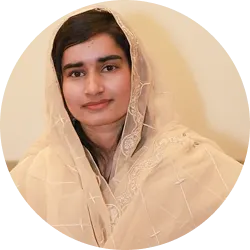
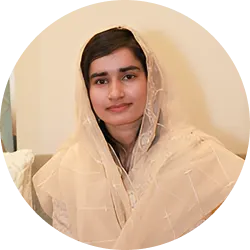
added images for partner with us and testimonials

diff --git a/src/views/Header/LoginSignupModel.tsx b/src/views/Header/LoginSignupModel.tsx
@@ -116,7 +116,7 @@ export const Model = ({ page = "login" }: { page: string }) => {
         headers: headers(),
       });
 
-      console.log("Profiles API response:", response.data);
+      // console.log("Profiles API response:", response.data);
 
       const profilesData = response.data.response.data;
       const allProfiles = [profilesData.self, ...profilesData.profiles].filter(Boolean);
@@ -130,9 +130,9 @@ export const Model = ({ page = "login" }: { page: string }) => {
           profilePhone === `92${phoneNum.startsWith('0') ? phoneNum.substring(1) : phoneNum}`;
       });
 
-      console.log("Current phone number:", currentPhoneNumber);
-      console.log("All profiles:", allProfiles);
-      console.log("Filtered profiles for current phone:", filteredProfiles);
+      // console.log("Current phone number:", currentPhoneNumber);
+      // console.log("All profiles:", allProfiles);
+      // console.log("Filtered profiles for current phone:", filteredProfiles);
       return filteredProfiles;
     } catch (error) {
       console.error("Error fetching profiles:", error);
@@ -213,7 +213,7 @@ export const Model = ({ page = "login" }: { page: string }) => {
           console.warn('[Login] dispatch setAuth failed', err);
         }
 
-        console.log("OTP verification response:", res.data.response);
+        // console.log("OTP verification response:", res.data.response);
 
         // Register device token with backend for call notifications (don't block UI)
         try {

diff --git a/src/pages/partnerwithus/testimonial.tsx b/src/pages/partnerwithus/testimonial.tsx
@@ -11,12 +11,20 @@ const ClientTestimonials: React.FC = () => {
   };
 
   const clients = [
-    { logo: "/images/logo.png", alt: "Daklit" },
-    { logo: "/images/Partner11.png", alt: "Logic Racks" },
-    { logo: "/images/logo3.png", alt: "Spartans" },
-    { logo: "/images/logo4.png", alt: "Think Collective" },
-    { logo: "/images/logo5.png", alt: "Abstron" },
-    { logo: "/images/logo6.png", alt: "NextTech" },
+    { logo: "/images/Green-Pharmacy.webp", alt: "Green Pharmacy" },
+    { logo: "/images/idclogo.webp", alt: "IDC" },
+    { logo: "/images/chughatailogo .webp", alt: "chughtai Lb" },
+    { logo: "/images/Esa-Lablogo.webp", alt: "Esa Lab" },
+    { logo: "/images/Westpoint .webp", alt: "Westpoint" },
+    { logo: "/images/terafortlogo.webp", alt: "tera fort" },
+    { logo: "/images/excellab .webp", alt: "excel lab" },
+    { logo: "/images/CBL.webp", alt: "CBL Lab" },
+    { logo: "/images/Abstron.webp", alt: "Abstron" },
+    { logo: "/images/larclogo.webp", alt: "larc" },
+    { logo: "/images/Hairclublogo.webp", alt: "Hairclub" },
+    { logo: "/images/mindstormlogo .webp", alt: "mindstorm" },
+    { logo: "/images/spartanslogo.webp", alt: "spartans" },
+    { logo: "/images/wejlogo.webp", alt: "Wej" },
   ];
 
   const testimonials = [

diff --git a/src/pages/partnerwithus/wellness.tsx b/src/pages/partnerwithus/wellness.tsx
@@ -118,7 +118,7 @@ const WellnessAreas: React.FC = () => {
           {
             img: "/images/brain.svg",
             title: "Mental Health",
-            text: "Stress Management, Resilience, Work-Life Balance, Sleep Hygiene, Energy Optimization.",
+            text: "Stress Management, Work-Life Balance, Energy Optimization.",
             className: styles.card3,
           },
         ].map((item, i) => (
@@ -145,8 +145,7 @@ const WellnessAreas: React.FC = () => {
      <div id="schedule" className={styles.bannerSection}>
   <div className={styles.bannerText}>
     <h4>
-      Let&apos;s collaborate to make your organization healthier, more
-      supported, and more hopeful.
+      Let&apos;s make your team more creative, healthier, and productive.
     </h4>
   </div>
 
@@ -160,8 +159,10 @@ const WellnessAreas: React.FC = () => {
       className={styles.meetingButton}
       onClick={() => {
         setShowModal(true);
-        trackEvent('partnerwithus_wellness_schedule_clk', {
-          section: 'mid_page'
+        trackEvent('generate_lead', {
+          section: 'mid_page',
+          action: 'schedule_meeting',
+          content_type: 'corporate'
         });
       }}
     >

diff --git a/src/views/Header/Navbar.tsx b/src/views/Header/Navbar.tsx
@@ -1422,7 +1422,7 @@ const Navbar: React.FC<{ doctors?: any[] }> = ({ doctors = [] }) => {
                       default:
                         break;
                     }
-                    router.push(item.href);
+                    router.push(item.href!);
                   }}
                 >
                   {item.title}
